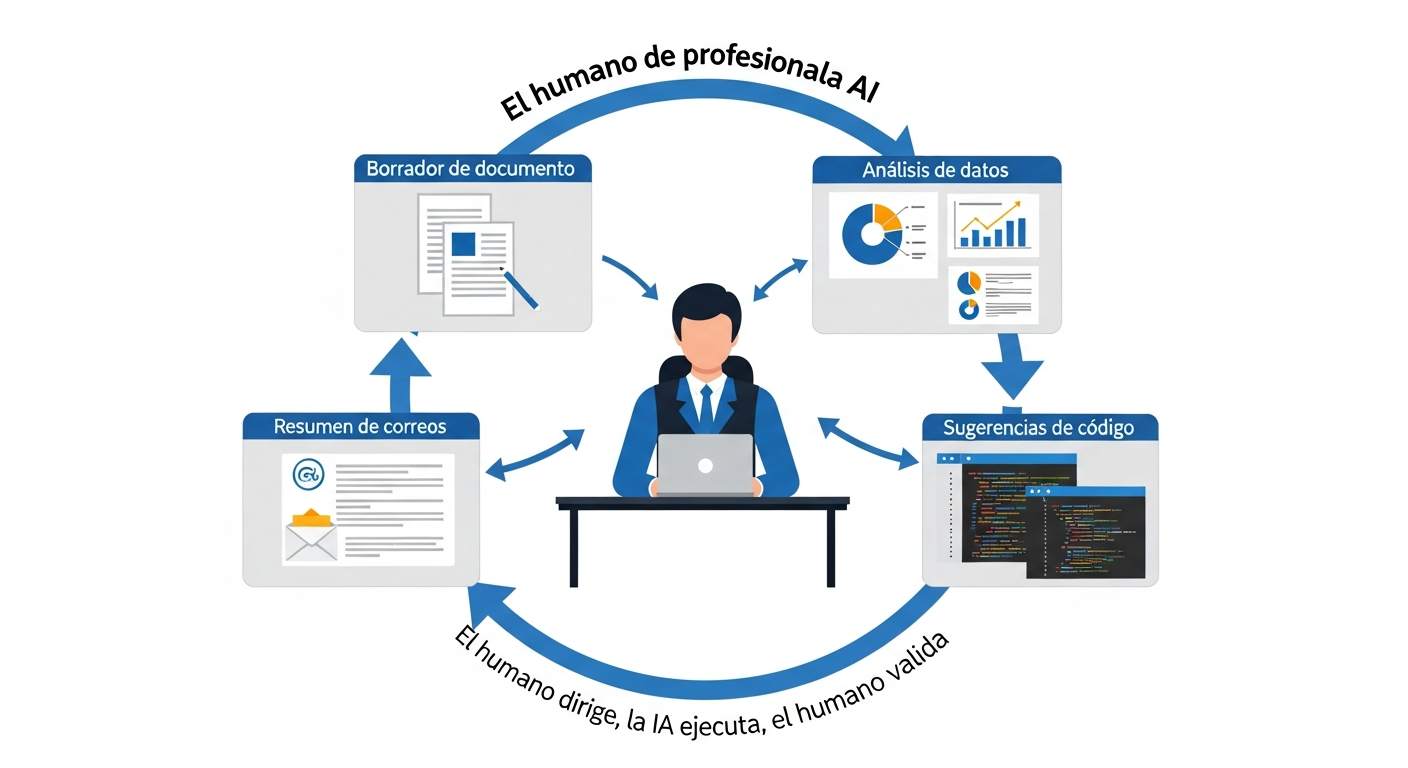
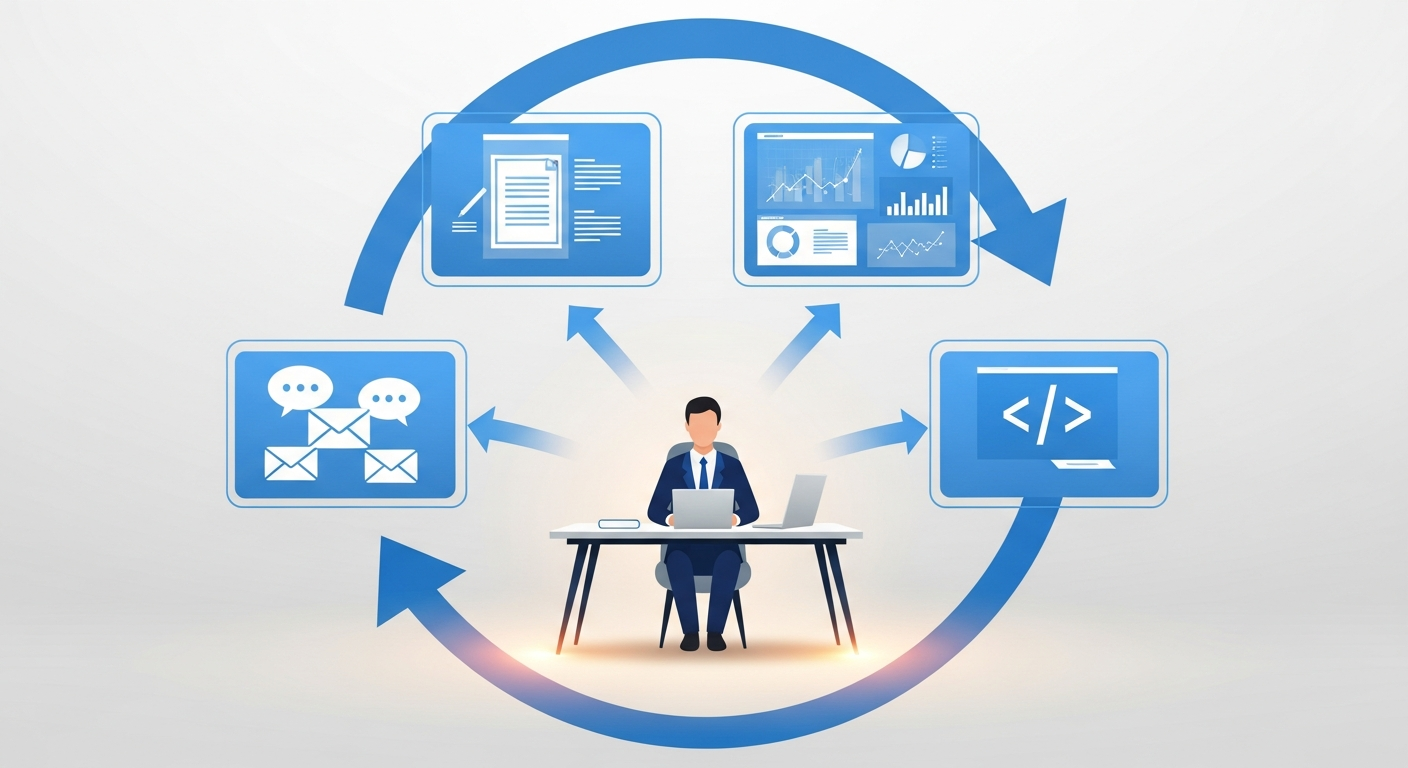
feat: HTML overlay labels on images — no more hallucinated text
- ModuleImage component now supports `labels` prop with position and style
- Regenerated all 7 images with "NO TEXT" prompts — clean visuals only
- Added Spanish labels as HTML overlays on each image in MDX
- Updated enrich-module skill with 3-step process: plan labels → generate
  image without text → apply HTML overlays
- Label styles: default, accent, dark, success, warning, danger
- Label positions: 9-point grid (top/center/bottom × left/center/right)

diff --git a/components/ModuleImage.tsx b/components/ModuleImage.tsx
@@ -1,18 +1,56 @@
+interface Label {
+  text: string
+  position: 'top-left' | 'top-center' | 'top-right' | 'center-left' | 'center' | 'center-right' | 'bottom-left' | 'bottom-center' | 'bottom-right'
+  style?: 'default' | 'accent' | 'dark' | 'success' | 'warning' | 'danger'
+}
+
 interface ModuleImageProps {
   src: string
   alt: string
   caption?: string
+  labels?: Label[]
 }
 
-export function ModuleImage({ src, alt, caption }: ModuleImageProps) {
+const POSITION_CLASSES: Record<Label['position'], string> = {
+  'top-left': 'top-3 left-3',
+  'top-center': 'top-3 left-1/2 -translate-x-1/2',
+  'top-right': 'top-3 right-3',
+  'center-left': 'top-1/2 left-3 -translate-y-1/2',
+  'center': 'top-1/2 left-1/2 -translate-x-1/2 -translate-y-1/2',
+  'center-right': 'top-1/2 right-3 -translate-y-1/2',
+  'bottom-left': 'bottom-3 left-3',
+  'bottom-center': 'bottom-3 left-1/2 -translate-x-1/2',
+  'bottom-right': 'bottom-3 right-3',
+}
+
+const STYLE_CLASSES: Record<NonNullable<Label['style']>, string> = {
+  default: 'bg-white/90 text-gray-800 border border-gray-200',
+  accent: 'bg-novartis-blue/90 text-white',
+  dark: 'bg-gray-900/85 text-white',
+  success: 'bg-emerald-600/90 text-white',
+  warning: 'bg-amber-500/90 text-white',
+  danger: 'bg-red-600/90 text-white',
+}
+
+export function ModuleImage({ src, alt, caption, labels }: ModuleImageProps) {
   return (
     <figure className="my-8 not-prose">
-      <img
-        src={src}
-        alt={alt}
-        className="w-full rounded-lg border border-gray-200"
-        loading="lazy"
-      />
+      <div className="relative">
+        <img
+          src={src}
+          alt={alt}
+          className="w-full rounded-lg border border-gray-200"
+          loading="lazy"
+        />
+        {labels?.map((label, idx) => (
+          <span
+            key={idx}
+            className={`absolute px-2.5 py-1 rounded-md text-xs font-semibold shadow-sm backdrop-blur-sm ${POSITION_CLASSES[label.position]} ${STYLE_CLASSES[label.style ?? 'default']}`}
+          >
+            {label.text}
+          </span>
+        ))}
+      </div>
       {caption && (
         <figcaption className="mt-2 text-center text-xs text-gray-500 italic">
           {caption}

diff --git a/.agents/skills/enrich-module/SKILL.md b/.agents/skills/enrich-module/SKILL.md
@@ -641,42 +641,71 @@ Print progress at each step:
 
 3. **Write descriptive prompts** following these strict rules:
 
+   **CRITICAL: Labels are HTML overlays, NOT generated in the image.**
+
+   AI image models hallucinate text — they produce gibberish like "Tolqules de assistantos" instead of real words. This is especially bad in non-English languages. Therefore:
+
+   - Generate images **WITHOUT any text, labels, or words** in the image itself
+   - Add all labels as HTML overlays using the `labels` prop on `<ModuleImage>`
+   - The image provides the visual concept; the HTML provides perfect text in Spanish
+
+   **3-STEP PROCESS:**
+   1. **Plan labels first:** Decide what labels the image needs and where they go (top-left, bottom-center, etc.)
+   2. **Generate image:** Prompt describes visual layout with empty spaces for labels
+   3. **Add HTML labels:** Use `<ModuleImage labels={[...]}/>` in the MDX
+
    **PROMPT RULES — MANDATORY:**
-   - Every prompt MUST describe **specific labeled elements** the image should contain
+   - Every prompt MUST end with "NO TEXT, NO LABELS, NO WORDS anywhere in the image"
+   - Every prompt MUST say "Leave empty space at [position] for overlay labels"
    - Every prompt MUST describe the **layout/structure** (left vs right, top vs bottom, grid, flow)
-   - Every prompt MUST end with "Clean professional infographic style, white background, clear readable labels in Spanish"
-   - NEVER use vague prompts like "abstract visualization of X" or "conceptual illustration of X"
+   - Every prompt MUST end with "Clean professional infographic style, white background"
+   - NEVER use vague prompts like "abstract visualization of X"
    - NEVER request dark/gradient backgrounds (they don't match the course's white design)
-   - NEVER generate images without text labels — the image must communicate WITHOUT the caption
-   - ALL text labels in the image MUST be in Spanish (matching the course language). Write the prompt in English but specify: "All labels and text in the image must be in Spanish"
 
    **PROMPT TEMPLATE:**
    ```
-   An educational infographic showing [WHAT THE CONCEPT IS].
+   An educational diagram showing [WHAT THE CONCEPT IS].
    [LAYOUT: left side shows X, right side shows Y / top-to-bottom flow / 2x2 grid].
-   [SPECIFIC ELEMENTS: list each labeled element that must appear].
+   [SPECIFIC VISUAL ELEMENTS: describe shapes, colors, arrows, icons — NOT text].
    [RELATIONSHIPS: arrows, dotted lines, groupings between elements].
-   All labels and text in the image must be in Spanish.
-   Clean professional infographic style, white background, [accent color] accents, clear readable labels in Spanish.
+   Leave empty space at [positions] for overlay labels.
+   Clean professional infographic style, white background. NO TEXT, NO LABELS, NO WORDS anywhere in the image.
    ```
 
    **GOOD prompt example:**
    ```
-   An educational infographic showing how word embeddings work in AI.
-   On the left side, the words feliz, alegría, and contento are clustered together as colored circles.
-   On the right side, triste, sombrío, and deprimido are clustered together.
-   In the middle, the word banco appears twice: once near río and agua, once near dinero and finanzas.
-   Dotted lines connect related words showing semantic distance.
-   All labels and text in the image must be in Spanish.
-   Clean professional infographic style, white background, blue accents, clear readable labels in Spanish.
+   An educational diagram showing word embedding clusters in AI.
+   Left cluster: three warm-colored circles close together (representing similar positive emotions).
+   Right cluster: three cool-colored circles close together (representing similar negative emotions).
+   Center: two identical circles in different clusters (representing a word with two meanings).
+   Dotted lines show distances between clusters.
+   Leave empty space at top-left and top-right for overlay labels.
+   Clean professional infographic style, white background. NO TEXT, NO LABELS, NO WORDS anywhere in the image.
    ```
+
+   Then in MDX, add the labels:
+   ```jsx
+   <ModuleImage
+     src="/media/<slug>/diagrams/embeddings-space.png"
+     alt="Espacio de embeddings"
+     caption="Los embeddings organizan palabras por significado."
+     labels={[
+       { text: "Feliz · Alegría · Contento", position: "top-left", style: "success" },
+       { text: "Triste · Sombrío · Deprimido", position: "top-right", style: "danger" },
+       { text: "Significados similares = cercanía", position: "bottom-center", style: "dark" }
+     ]}
+   />
+   ```
+
+   **Label styles available:** `default` (white), `accent` (blue), `dark` (black), `success` (green), `warning` (amber), `danger` (red)
+   **Label positions available:** `top-left`, `top-center`, `top-right`, `center-left`, `center`, `center-right`, `bottom-left`, `bottom-center`, `bottom-right`
 
    **BAD prompt example:**
    ```
-   A clean minimal tech illustration of semantic embedding space with glowing nodes
-   on dark blue gradient background, professional futuristic style
+   An educational infographic with labels showing feliz, alegría, contento...
+   Clean professional infographic style, clear readable labels in Spanish.
    ```
-   This produces pretty but useless images with random gibberish labels.
+   This produces hallucinated gibberish text. NEVER ask the model to generate text.
 
 4. **Generate images** using the Gemini API:
 
@@ -694,10 +723,10 @@ Print progress at each step:
 5. **Save images** to `public/media/<slug>/diagrams/<descriptive-name>.png`
 
 6. **Verify each image** before proceeding:
-   - Does it have readable labels?
-   - Does it communicate the concept without a caption?
+   - Does it have NO text/labels baked in? (any text = regenerate)
+   - Does the visual composition leave space for HTML overlay labels?
    - Does it match the white/professional style of the course?
-   - If not → regenerate with a more specific prompt. Do NOT keep decorative-only images.
+   - If not → regenerate with a more specific prompt. Do NOT keep images with hallucinated text.
 
 7. **Record in sources.json:**
    ```json
